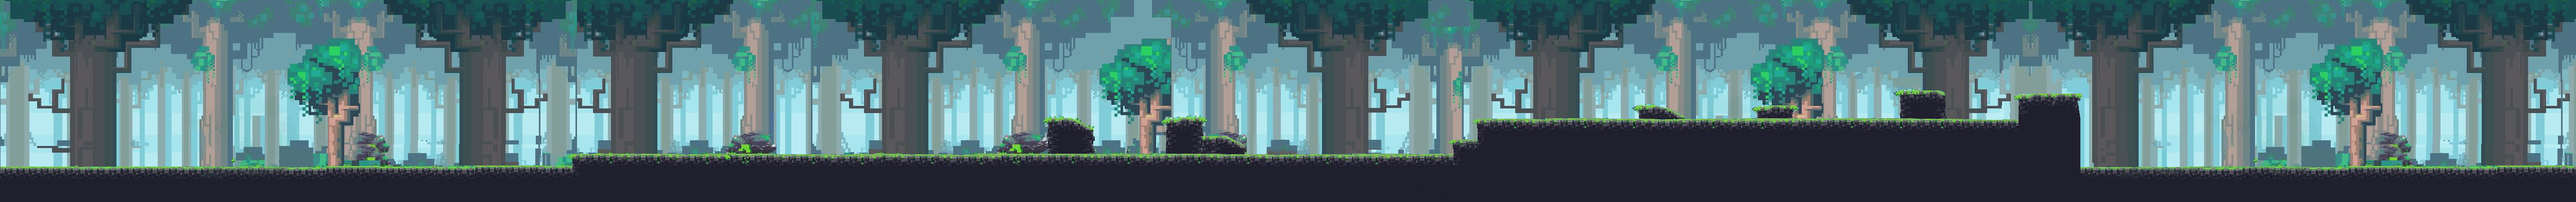
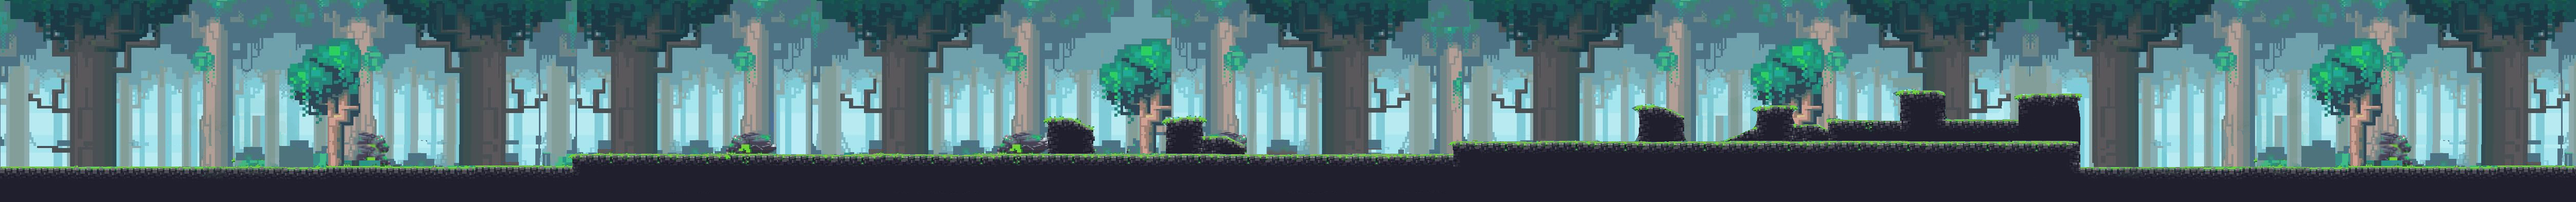
AABB 충돌 실험중

Changed region(s): [[0.5616, 0.5802, 0.8112, 0.7328]]

diff --git a/src/BackGround.cpp b/src/BackGround.cpp
@@ -8,7 +8,12 @@
 BackGround::BackGround(LoaderParams* pParams)
 	:SDLGameObject(pParams) 
 {
+	m_1stCheckP = m_1stFloor_w - mBg_START - TheGame::Instance()->Pwalk_FrameW;
+	m_2stCheckP = m_2stFloor_w;
+	m_3stCheckP = m_3stFloor_w - mBg_START - TheGame::Instance()->Pwalk_FrameW;
 
+	m_CurrBlock_MaxX = m_1stCheckP;
+	m_CurrBlock_MinX = 0;
 }
 
 void BackGround::setPlayerData(Player* player)
@@ -24,6 +29,10 @@ int BackGround::getBgXpos()
 int BackGround::getGroundyPos()
 {
 	return mGround_yPos;
+}
+int BackGround::getBgSpeed()
+{
+	return mBg_MoveSpeed;
 }
 
 void BackGround::move_byPlayer()
@@ -75,6 +84,40 @@ void BackGround::move_byPlayer()
 		mBg_MoveSpeed = 0;
 }
 
+void BackGround::BlockCheck()
+{
+	m_CurrBlock_MaxX -= mBg_MoveSpeed;
+
+	if (m_CurrBlock_MaxX <= 0) {
+
+		if (AABBCheck()) {
+			mBg_MoveSpeed = 0;
+		}
+		else {
+			player->Add_GroundYpos(m_Floor_h);
+			//m_CurrBlock_MaxX = m_2stChec   kP;
+			CheckYPos -= m_Floor_h;
+		}
+	}
+	else
+		return;
+}
+
+void BackGround::BlockInstall()
+{
+
+}
+
+bool BackGround::AABBCheck()
+{
+	if (player->getYPos() > CheckYPos) {
+		return true;
+	}
+	else {
+		return false;
+	}
+}
+
 void BackGround::draw()
 {
 	The_TextMananger::Instance()->drawMove(m_textureID,
@@ -83,7 +126,11 @@ void BackGround::draw()
 }
 
 void BackGround::update()
-{
+{ 
+	std::cout << m_CurrBlock_MaxX << "!!" << std::endl;
+
 	move_byPlayer();
+	BlockCheck();
+
 	mBg_CurrXpos += mBg_MoveSpeed;
 }

diff --git a/src/SponManger.cpp b/src/SponManger.cpp
@@ -25,14 +25,14 @@ SDLGameObject* SponManger::sponByGameBg()
 	switch (GmBg_XPos)
 	{
 	case kSkull_SponXpos:
-		monster = new Monster(new LoaderParams(400, GmBg->getGroundyPos(), 48, 50, "Kskull"));
+		//monster = new Monster(new LoaderParams(400, GmBg->getGroundyPos(), 48, 50, "Kskull"));
 
-		if (!The_TextMananger::Instance()->load(TheGame::Instance()->adr_Kskull
-			, "Kskull", TheGame::Instance()->getRenderer()))
-		{
-			std::cout << "Error";
-			break;
-		}
+		//if (!The_TextMananger::Instance()->load(TheGame::Instance()->adr_Kskull
+		//	, "Kskull", TheGame::Instance()->getRenderer()))
+		//{
+		//	std::cout << "Error";
+		//	break;
+		//}
 
 		TheBattleManger::Instance()->setMonsterObj(monster);
 		SponObj = monster;

diff --git a/src/Game.cpp b/src/Game.cpp
@@ -64,6 +64,7 @@ bool Game::init(const char* Stitle, int xpos, int ypos, int Swidth, int Sheight,
 		return false;
 
 	m_GmBg->setPlayerData(m_player);
+	m_monster->setBgData(m_GmBg);
 
 	TheBattleManger::Instance()->setGameObj(m_player, m_monster);
 	TheInterfaceManger::Instance()->setDefaltData(m_player);

diff --git a/include/SDLGameObject.h b/include/SDLGameObject.h
@@ -17,7 +17,7 @@ public:
 protected:
 	enum State
 	{
-		IDLE, WALK, ATTACK, HIT, DIE
+		IDLE, WALK, ATTACK, HIT, DIE, TOMB
 	};
 
 	std::string m_textureID;

diff --git a/include/BattleManger.h b/include/BattleManger.h
@@ -29,4 +29,5 @@ private:
 
 	Player* player;
 	Monster* monster;
+
 }typedef TheBattleManger;
